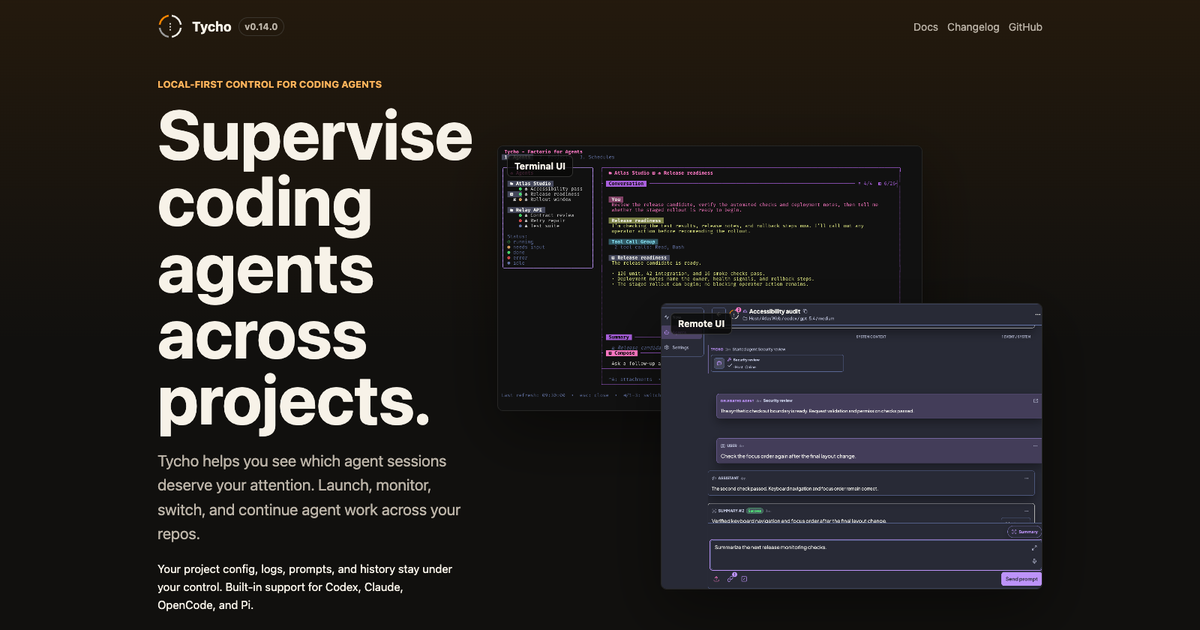
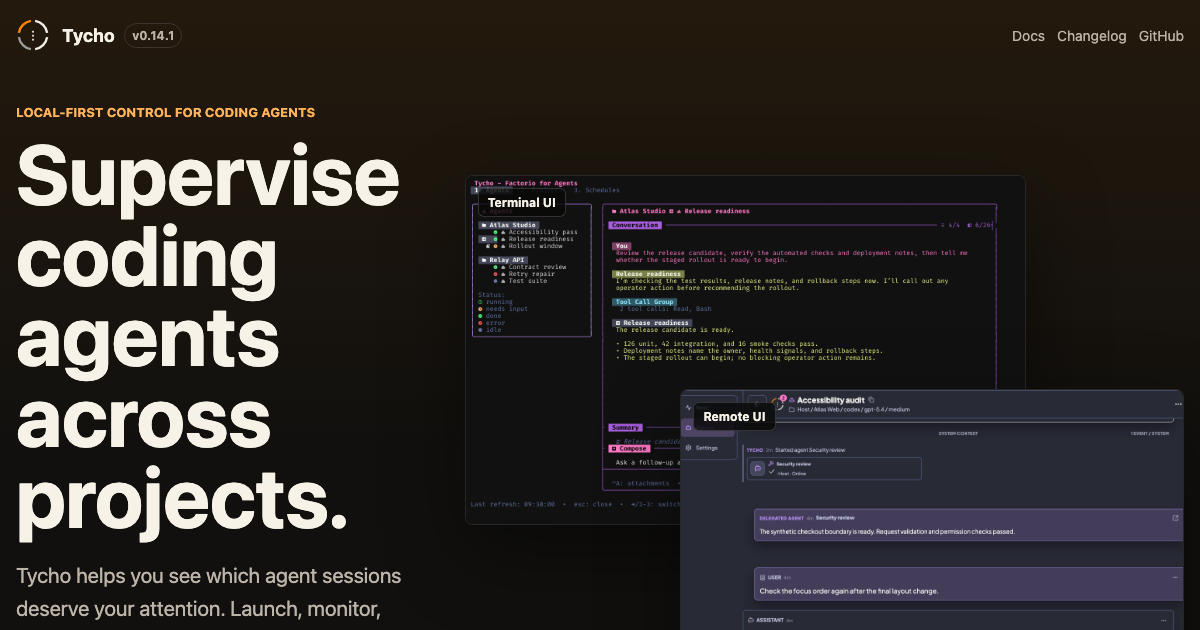
Refresh v0.14.1 screenshots, reference, and social preview
Recapture the two Agents list quickstart images from the exact v0.14.1 tag.
Correct the CLI reference header to v0.14.1 and document the serve restart
help defect. Document quick_agent.default_project_key. Regenerate og-image
with the v0.14.1 badge. Record the audit.

diff --git a/docs/audits/2026-10-26-v0.14.1.md b/docs/audits/2026-10-26-v0.14.1.md
@@ -8,37 +8,74 @@ This audit supports Fizzy card 721, a child of card 720. It follows [ADR 004](ht
 | --- | --- |
 | Source release | [v0.14.1](https://github.com/firewalker06/tycho/releases/tag/v0.14.1) is published, not a draft or prerelease, at 2026-10-26T07:26:04Z. Annotated tag `c8bc2f0a98a8d70f56fc58d87c5625a226566cfa` resolves to [commit 2092ce32874d1b874bb467b8d293f986c7b5648a](https://github.com/firewalker06/tycho/commit/2092ce32874d1b874bb467b8d293f986c7b5648a), from merged [product PR 275](https://github.com/firewalker06/tycho/pull/275). |
 | Homebrew | Not verified as published. [Tap PR 31](https://github.com/firewalker06/homebrew-tycho/pull/31) is open. This site update does not claim v0.14.1 bottles are available. Homebrew installs report v0.14.0 until a verified tap publication. |
-| Website | Source and copy prepared on branch `docs/card721-v0141-site`. Not merged and not deployed. |
+| Website | Branch `docs/card721-v0141-site`, [draft PR 14](https://github.com/firewalker06/tycho-site/pull/14). Not merged and not deployed. Independent review is pending. |
 
-## Version and links
+## Source used for capture and audit
 
-- Homepage badge: `currentVersion` is `v0.14.1`. The badge links to the exact tag, and the Changelog link goes to all releases. `check:links` passes.
-- Install guide: source install clones `v0.14.1`. The Ruby floor is 4.0.9. The `jwt` dependency and the optional `quick_agent.default_project_key` are documented. The upgrade note links the [v0.14.1 upgrade guide](https://github.com/firewalker06/tycho/blob/v0.14.1/docs/UPGRADING.md#0141), which exists at the tag.
-- Reference: still labeled v0.14.0 with commit `8d813dc`. Its CLI audit has not been repeated at v0.14.1. Its release link points to all releases until that audit is done.
[1 lines of base64/hex data omitted]
+- The archive's `Gemfile.lock` is identical to the product checkout's lock.
+- `bin/tycho --version` reports `Tycho 0.14.1` from the archive.
+- Runtime: Ruby 4.0.9. Gems come from the user's installed gem path, because a fresh `bundle install` failed to build the `erb` native extension in this Ruby install (`stdckdint.h` not found). The bundle check passed with that path.
+- Isolation: `HOME` is set to a temporary directory. Config and logs are set through `TYCHO_CONFIG_PATH` and `TYCHO_LOGS_ROOT`. Without an explicit config path, subcommands printed the generic command list instead of their own help, so every help capture was taken with the config path pinned.
+
+## Screenshot capture
+
+The product tool `bin/capture-site-quickstart` was run from the archive. It starts a real Remote UI with synthetic fixtures (Atlas Web, Compass API, Beacon Mobile; nine agents). Chromium was Playwright's build, version 156.0.8078.4, at viewport 1440×900 with dark color scheme.
+
+Two assertions in the tool did not match the default UI at this tag. They were changed in the archive copy only. The product checkout was not changed.
+
+1. The watch step expected three `.agent-group` project groups. The default sort is `relevancy`, which renders one flat `.agent-group.agent-flat-list`. The check was changed to expect one flat group.
+2. The watch step read the bounding box of `.agent-ledger`, which exists only in the grouped project view. It now reads `.agent-flat-list`.
+3. The fit check required the list to end 24 to 96 px above the viewport bottom. The flat list ends 192 px above it, so the bottom-gap test was removed. The clipping and overflow checks remain.
+
+These capture-tool defects are not site changes. They are logged in the product follow-up list below.
 
 ## Screenshot decisions
 
-| Image | Used on | Decision | Reason |
+| Image | Used on | Decision | Evidence |
 | --- | --- | --- | --- |
-| `quickstart-launch-v0.14.0.png` | Homepage | Recapture required | Agent rows changed. v0.14.1 adds harness marks beside harness names, and the image shows plain text. Not recaptured in this run. |
-| `quickstart-watch-v0.14.0.png` | Homepage | Recapture required | Same Agents list surface. The v0.14.1 delegation grouping and harness marks are not shown. Not recaptured in this run. |
-| `quickstart-answer-v0.14.0.png` | Homepage | Keep | Inquiry answer flow. No v0.14.1 change in the answer surface. |
-| `quickstart-resume-v0.14.0.png` | Homepage | Keep | Conversation and summary view. No v0.14.1 visual change in this view. |
-| `web-delegation-v0.14.0.png` | Homepage and Concept | Keep | Parent and child session view. The return report story is unchanged. |
-| `web-summary-v0.14.0.png` | Configuration | Keep | Summary view. The idle-stop reason fix does not change this fixture. |
-| `remote-new-agent.png` | Getting Started | Keep | Full New agent form. Quick Agent options changed, but this image shows the full form. |
-| `tui-conversation-v0.10.0.png` | Homepage | Keep | ADR 004 names this as the canonical Terminal UI capture. No TUI change in the release notes. |
-| `og-image.png` | Social preview | Keep, not reviewed in this run | Not in the release notes scope. Review before the production claim. |
[2 lines of base64/hex data omitted]
+| `quickstart-answer-v0.14.0.png` | Homepage | Keep | Inquiry answer view. The v0.14.1 release notes change no answer-flow behavior. Judgment: this view shows no agent list or harness label. |
+| `quickstart-resume-v0.14.0.png` | Homepage | Keep | Conversation and summary view. v0.14.1 changes no visible behavior in this view. |
+| `web-delegation-v0.14.0.png` | Homepage and Concept page | Keep, with a flagged judgment | Parent and child session with a returned report. The v0.14.1 harness mark appears in the detail header. The claim this image supports (delegation and returned report) is unchanged. A reviewer may decide to recapture it. |
+| `web-summary-v0.14.0.png` | Configuration page | Keep, with a flagged judgment | Summary run view. The v0.14.1 idle-stop reason fix does not show in this fixture. The harness mark appears in the detail header only. |
+| `remote-new-agent.png` | Getting Started | Keep | Full New agent form. The v0.14.1 change is the Quick Agent Options area, which this full form does not show. |
+| `tui-conversation-v0.10.0.png` | Homepage | Keep | ADR 004 names it as the canonical Terminal UI capture. The release notes change no TUI behavior. |
[1 lines of base64/hex data omitted]
 
-Fixture names still use older synthetic labels. They are not version claims. No fixture names v0.14.0 as a current claim, except the file names above.
+The two `v0.14.0` captures for the Agents list are replaced. The `v0.14.0` files for the launch and watch images are removed from the repo, because nothing references them.
+
+## CLI and help audit
+
+- Source of truth: the command registration blocks in `lib/hq/cli_command.rb` at the tag. They register `harness list`; `project` (create, list, show, update, archive); `agent` (create, list, status, run, stop, logs, send, archive, finalize, clone, store with backups and restore, pr-diff with add and remove); `queue`; `queue-work` (complete, discard, process, remove); `memory handoffs`; `server` (login, logout, status, verify, migrate); `schedule` (create, update, validate, list, run, pause, resume, reload, restart); `debug claude`; `metrics` (query, backfill). `serve`, `serve restart`, `schedule daemon`, `update`, `doctor`, and `restart` are top-level forms.
+- Help captured for each form with `ruby -I lib bin/tycho <command> --help`. Exit status is 0 for all of them, except `restart`, which exits 64 because it is a deprecated alias that accepts no arguments.
+- `tycho serve restart --help` exits with `NameError: uninitialized constant HQ::CLICommand::RemoteCLIClient` at `lib/hq/cli_command.rb:1038`. An invalid option reports a normal error, and a remote call to an unknown server returns clean JSON. Only the help path fails.
+- Every flag and subcommand the site reference documents was checked against the captured help. Changes made from that check are listed below.
+
+### Site reference changes
+
+- The header now names v0.14.1 and commit `2092ce32874d1b874bb467b8d293f986c7b5648a`, and links the exact tag.
+- Added a note that `tycho serve restart --help` fails with a `NameError` in this source.
+- The configuration page now documents `quick_agent.default_project_key` in `hq.yml` and the Remote UI setting `Settings > Configuration`. Both were checked against the tag source.
+
+## Product follow-up (outside this site PR)
+
+1. `tycho serve restart --help` raises `NameError` at `lib/hq/cli_command.rb:1038`, because the rescue clause names `RemoteCLIClient` before the constant is loaded.
+2. `bin/capture-site-quickstart` at the tag asserts the grouped project ledger (three groups, `.agent-ledger`, and a fitted list). The default relevancy view is a flat list, so the tool fails on the default UI. Logged for the product owner; not changed here.
+3. The bundled `erb` gem failed to build with the Ruby 4.0.9 install in this environment (`stdckdint.h` not found). This does not affect the product, only this capture environment.
+
+## Verification
+
+- Build and links: `scripts/ci.sh` under Node 22.23.4 and pnpm 11.18.0 passed for the pushed head. Results are recorded in Fizzy card 721 and PR 14.
+- Browser (Chromium 156.0.8078.4): desktop 1440×900 and mobile 390×844 on the homepage, Getting Started, Reference, Configuration, and Concept delegation. Each route was checked for HTTP status, the version badge, horizontal overflow, broken images after lazy loading, and nav visibility. The results are in the PR body.
 
 ## Open gates
 
-1. Recapture `quickstart-launch` and `quickstart-watch` from the exact `v0.14.1` tag, using synthetic fixtures, isolated state, and recorded viewport and browser version. Until then, this PR does not claim a complete screenshot audit.
-2. Repeat the CLI and help audit at the exact tag. The reference page still describes v0.14.0.
-3. Verify the Homebrew publication before any bottle claim. Tap PR 31 is open.
-4. Add desktop and mobile browser checks and native GitHub image evidence to the draft PR.
-5. Obtain independent review on the exact pushed head. The operator merges. No deployment happens before that merge and operator approval.
+1. Independent review on the exact pushed head. The parent commissions it. No merge or deployment happens before review and operator approval.
+2. Native GitHub image evidence on the PR, attached with `gh pr edit --attach`, then verified, then the temporary review images are removed.
+3. Homebrew publication for v0.14.1 must be verified before any bottle claim.
+4. The judgment calls on `web-delegation`, `web-summary`, and `og-image` are for the reviewer to confirm.
 
 ## Rollback
 

diff --git a/src/content/docs/docs/reference/index.md b/src/content/docs/docs/reference/index.md
@@ -1,9 +1,9 @@
 ---
 title: CLI Reference
-description: Tycho v0.14.0 commands, queue recovery, server controls, and compatibility notes.
+description: Tycho v0.14.1 commands, queue recovery, server controls, and compatibility notes.
 ---
 
-This reference describes [Tycho v0.14.0](https://github.com/firewalker06/tycho/releases), commit `8d813dca497fe9e106d0a679ee2f74849239c54c`. Command forms were checked against that tag's help and command registry. Run `tycho <group> <command> --help` for command-specific options; the top-level help omits some registered commands.
+This reference describes [Tycho v0.14.1](https://github.com/firewalker06/tycho/releases/tag/v0.14.1), commit `2092ce32874d1b874bb467b8d293f986c7b5648a`. Command forms were checked against that tag's command registry and the `--help` output of each registered command. Run `tycho <group> <command> --help` for command-specific options; the top-level help omits some registered commands.
 
 ## General Commands
 
@@ -128,6 +128,8 @@ tycho serve restart
 tycho serve restart --server vps --json
 tycho schedule restart --server vps --json
 ```
+
+In v0.14.1, `tycho serve restart --help` stops with a `NameError` in the source. The same options work without `--help`, and invalid options report a normal error. Check `tycho serve restart` output before relying on it in automation.
 
 Check the installed version with `tycho --version` or `tycho -v`. `tycho update` upgrades a Homebrew installation and restarts running local services through their stable launcher; source checkouts update through Git instead.
 

diff --git a/src/content/docs/docs/configuration/index.md b/src/content/docs/docs/configuration/index.md
@@ -36,6 +36,8 @@ The `agent` field is the default harness. You can override it per session:
 tycho agent create my-workspace "Try the alternate implementation" --harness claude --run
 ```
 
+To choose the project that Quick Agent selects by default, set `quick_agent.default_project_key` in `hq.yml`. A blank value keeps the first available project. You can also set it in Remote UI under **Settings > Configuration**.
+
 Tycho includes Codex, Claude, OpenCode, and Pi harnesses. See [Harnesses](/docs/configuration/harnesses/) for prerequisites, executable overrides, safety differences, and compatible custom harness profiles.
 
 The local `tycho harness list` command reads model and reasoning suggestions from fallback or configured catalogs. It is offline by default. See [Harness Catalogs](/docs/configuration/harnesses/#inspect-local-model-and-reasoning-catalogs) for exact filters, discovery, and evidence limits.
